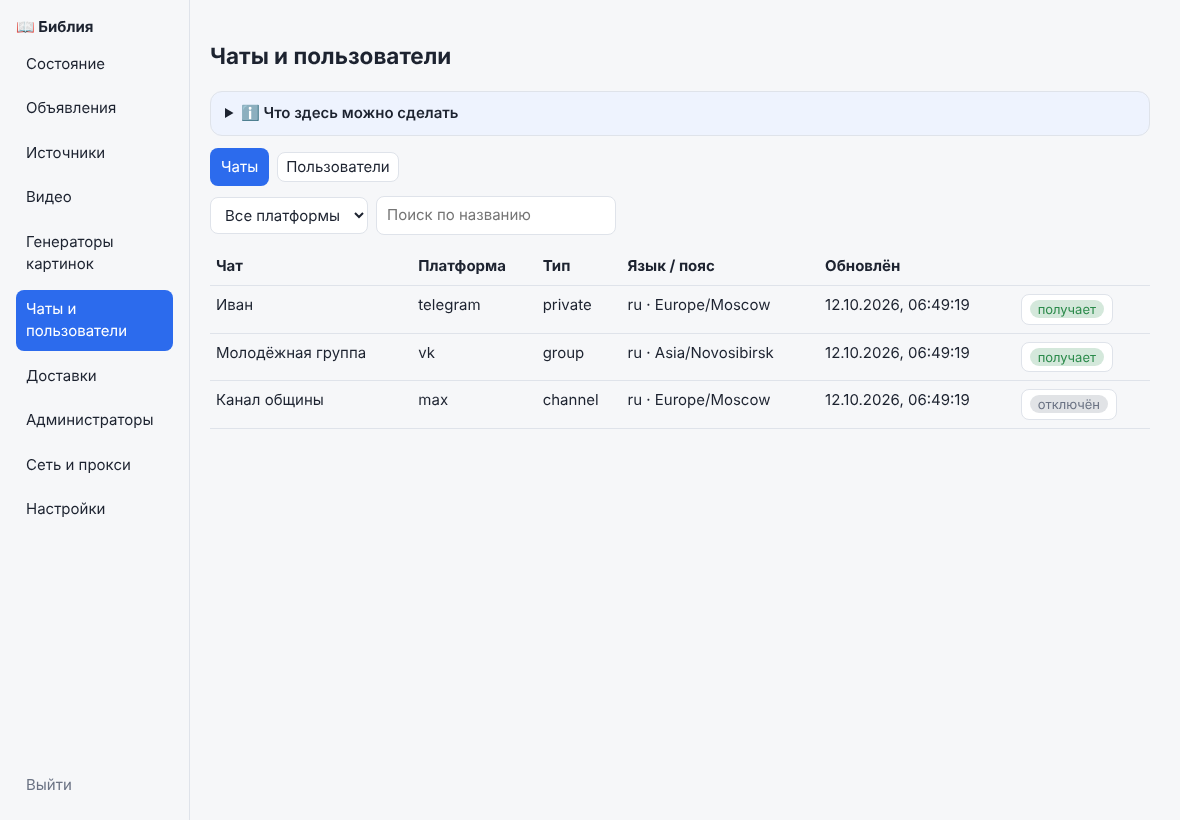
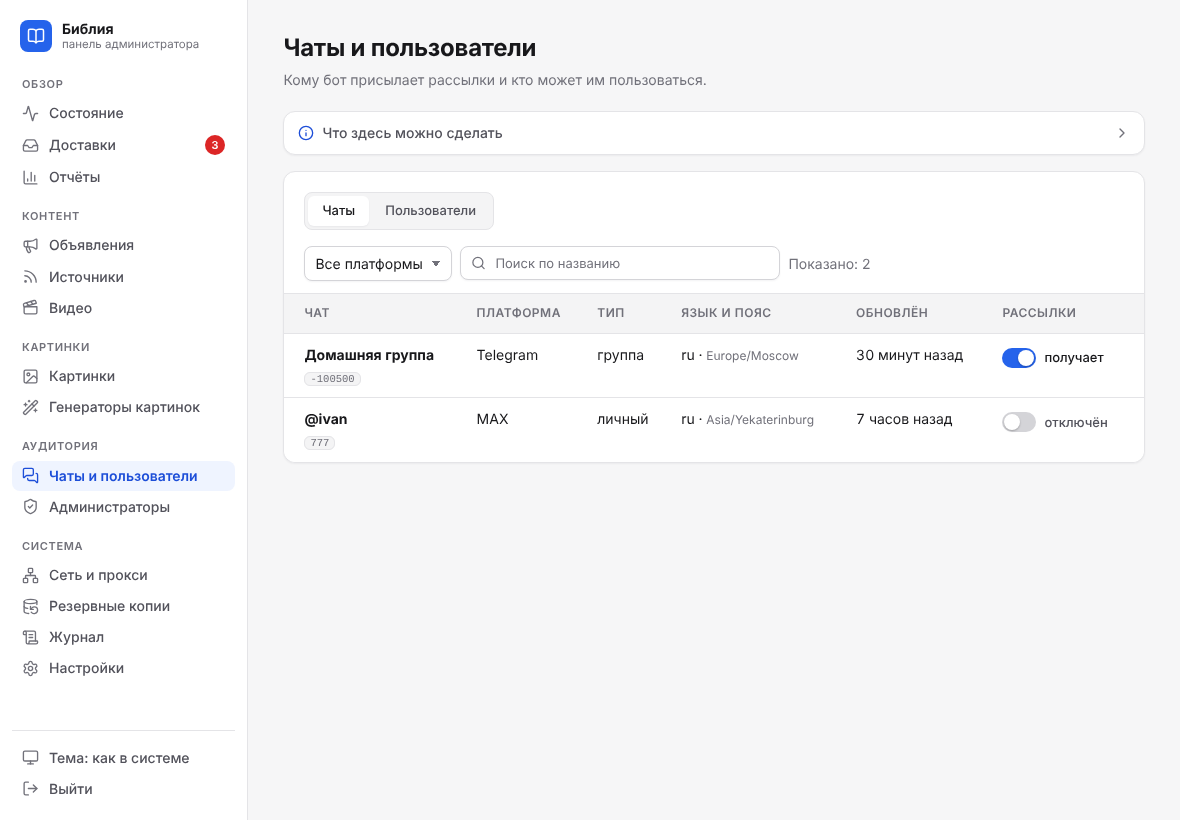
Refresh panel screenshots in docs and remove unused panel styles
Follow-up to the admin-ui redesign.

- docs/assets/screenshots/panel-*.png retaken on the new panel with a
  reproducible script: npm run screenshots:docs (light theme, 1180x820,
  mocked data).
- Removed CSS rules no page uses any more (.grid, .check, .pre, big,
  button.link, .backup-table), the legacy variable aliases and the unused
  Badge component.
- Billing mode select in the add-provider form no longer truncates.
- docs/admin wording updated for the new UI (route order buttons,
  template picker, audit filter).

Claude-Session: https://claude.ai/code/session_011Sz8CA2kvJ9BXFTKoYsh3G

diff --git a/admin-ui/src/styles.css b/admin-ui/src/styles.css
@@ -1,7 +1,5 @@
 @import './styles/tokens.css';
 
-/* Старые имена переменных, на которые ещё ссылаются разделы. Уйдут вместе с переводом разделов на компоненты. */
-:root { --fg: var(--text); --card: var(--surface); --line: var(--border); --muted: var(--text-3); --ok: var(--success); }
 
 /* ---------- Основа ---------- */
 *, *::before, *::after { box-sizing: border-box; }
@@ -20,8 +18,6 @@ pre { font-family: var(--font-mono); font-size: var(--text-sm); }
 small { font-size: var(--text-xs); }
 .muted, small { color: var(--text-3); }
 .error { color: var(--danger); }
-.pre { white-space: pre-wrap; margin: 4px 0; }
-big { display: block; font-size: 30px; font-weight: 650; letter-spacing: -0.02em; font-variant-numeric: tabular-nums; line-height: 1.2; margin-top: var(--space-1); }
 :focus-visible { outline: none; box-shadow: var(--focus); }
 ::selection { background: var(--accent-soft); }
 
@@ -115,7 +111,6 @@ button.small { min-height: var(--control-h-sm); padding: 0 10px; font-size: var(
 button.small:hover:not(:disabled) { background: var(--surface-hover); }
 button.danger { color: var(--danger); }
 button.small.danger:hover:not(:disabled) { background: var(--danger-soft); border-color: color-mix(in srgb, var(--danger) 40%, var(--border-strong)); }
-button.link { background: none; border: 0; box-shadow: none; color: var(--accent-text); padding: 0; min-height: 0; }
 .button-block { width: 100%; }
 .nav-item, .icon-button { box-shadow: none; min-height: 0; }
 .nav-item:hover:not(:disabled), .icon-button:hover:not(:disabled) { background: var(--surface-hover); }
@@ -124,15 +119,11 @@ button.link { background: none; border: 0; box-shadow: none; color: var(--accent
 /* ---------- Блоки ---------- */
 .card { background: var(--surface); border: 1px solid var(--border); border-radius: var(--radius-lg); padding: var(--space-5); margin: var(--space-4) 0; box-shadow: var(--shadow-sm); }
 .card .card { box-shadow: none; background: var(--surface-2); }
-.grid { display: grid; grid-template-columns: repeat(auto-fit, minmax(200px, 1fr)); gap: var(--space-4); margin: var(--space-4) 0; }
-.grid > .card { margin: 0; }
-.grid > .card > h3 { margin: 0; font-size: var(--text-sm); font-weight: 500; color: var(--text-2); }
 .row { display: flex; flex-wrap: wrap; gap: var(--space-2); align-items: center; margin: var(--space-2) 0; }
 .row > label { display: inline-flex; align-items: center; gap: 6px; }
 .actions { display: flex; gap: 6px; flex-wrap: wrap; align-items: center; }
 td.actions { display: table-cell; }
 td.actions > * { margin: 0 6px 6px 0; vertical-align: middle; }
-.check { margin: 6px 0; line-height: 1.6; }
 
 .callout { display: flex; align-items: flex-start; gap: var(--space-2); padding: 10px 12px; border-radius: var(--radius-md); font-size: var(--text-sm); margin: 0; }
 .callout > svg { flex: none; margin-top: 2px; }
@@ -173,11 +164,7 @@ tbody tr:hover td { background: color-mix(in srgb, var(--surface-hover) 60%, tra
 .badge.pending { background: var(--accent-soft); color: var(--accent-text); }
 button.small .badge { background: none; padding: 0; min-height: 0; box-shadow: none; }
 
-/* ---------- Резервные копии и выпуски ---------- */
-.backup-table { overflow-x: auto; }
-.backup-table th { white-space: nowrap; }
-.backup-table td:nth-child(3) { overflow-wrap: anywhere; min-width: 180px; }
-.backup-table td:last-child button { white-space: nowrap; }
+/* ---------- Версия и автодеплой ---------- */
 .release-heading { justify-content: space-between; }
 .release-heading h3 { margin: 0; }
 .release-grid { display: grid; grid-template-columns: repeat(auto-fit, minmax(205px, 1fr)); gap: var(--space-4); }

diff --git a/admin-ui/tests/screenshots.spec.js b/admin-ui/tests/screenshots.spec.js
@@ -27,3 +27,33 @@ for (const mode of MODES) {
     }
   });
 }
+
+// Скриншоты для пользовательской документации (docs/assets/screenshots/panel-*.png):
+// `npm run screenshots:docs`. Светлая тема, окно 1180×820, тестовые данные из моков.
+const DOCS = path.resolve('../docs/assets/screenshots');
+const DOC_SHOTS = [
+  ['panel-overview', 'Состояние'], ['panel-announcements', 'Объявления'], ['panel-sources', 'Источники'],
+  ['panel-videos', 'Видео'], ['panel-images', 'Генераторы картинок'], ['panel-chats', 'Чаты и пользователи'],
+  ['panel-deliveries', 'Доставки'], ['panel-admins', 'Администраторы'], ['panel-settings', 'Настройки'],
+  ['panel-network', 'Сеть и прокси'],
+];
+
+test('скриншоты для документации', async ({ page, api }) => {
+  test.skip(!process.env.DOCS_SCREENSHOTS, 'только по npm run screenshots:docs');
+  test.setTimeout(120000);
+  await page.setViewportSize({ width: 1180, height: 820 });
+  await page.emulateMedia({ colorScheme: 'light' });
+  await page.goto('./');
+  await page.screenshot({ path: `${DOCS}/panel-login.png` });
+  await login(page);
+  for (const [name, label] of DOC_SHOTS) {
+    await openSection(page, label);
+    await api.settle();
+    await page.screenshot({ path: `${DOCS}/${name}.png`, animations: 'disabled' });
+  }
+  await openSection(page, 'Генераторы картинок');
+  await page.getByRole('combobox').filter({ hasText: 'выберите шаблон' }).selectOption('cloudflare-flux');
+  await api.settle();
+  await page.getByRole('heading', { name: 'Добавить генератор' }).scrollIntoViewIfNeeded();
+  await page.screenshot({ path: `${DOCS}/panel-images-template.png`, fullPage: true, animations: 'disabled' });
+});

diff --git a/admin-ui/src/ui.jsx b/admin-ui/src/ui.jsx
@@ -54,7 +54,6 @@ export function useAction(after) {
 
 export const Status = ({ error, loading }) => (error ? <p className="callout callout-danger" role="alert">{error}</p>
   : loading ? <p className="loading" aria-live="polite"><span className="spinner" aria-hidden="true" />Загрузка…</p> : null);
-export const Badge = ({ on, yes = 'вкл', no = 'выкл' }) => <span className={`badge ${on ? 'ok' : 'off'}`}>{on ? yes : no}</span>;
 export const when = (value) => (value ? new Date(value).toLocaleString('ru-RU') : '—');
 
 export const PLATFORMS = [['telegram', 'Telegram'], ['max', 'MAX'], ['vk', 'ВКонтакте']];

diff --git a/admin-ui/src/pages/ImageProviders.jsx b/admin-ui/src/pages/ImageProviders.jsx
@@ -84,7 +84,7 @@ function AddForm({ templates, onCreated, secretsReady }) {
           </div>
           <div className="form-section">
             <h4 className="form-section-title">Оплата</h4>
-            <div className="form-grid">
+            <div className="form-grid form-grid-wide">
               <Field label="Режим оплаты"><select value={f.billing_mode} onChange={(e) => set({ billing_mode: e.target.value })}>
                 {Object.entries(BILLING).map(([id, text]) => <option key={id} value={id}>{text}</option>)}
               </select></Field>

diff --git a/docs/admin/admin-panel.md b/docs/admin/admin-panel.md
@@ -142,7 +142,7 @@ GitHub: Docker socket, `.env`, журналы и приватные артефа
 
 Роль выбирается при создании приглашения (`/admin invite editor`, кнопки в `/admin` → «Администраторы» или список в панели) и меняется в панели на странице «Администраторы». Панель защищена общим ключом, поэтому проверка ролей действует в командах бота.
 
-- **Журнал** (страница «Журнал»): кто, откуда (панель/бот), что и над чем сделал; ключи, пароли и адреса прокси скрываются; хранится 365 дней (`RETENTION_AUDIT_DAYS`).
+- **Журнал** (страница «Журнал»): кто, откуда (панель/бот), что и над чем сделал, с фильтром по тексту и источнику; ключи, пароли и адреса прокси скрываются; хранится 365 дней (`RETENTION_AUDIT_DAYS`).
 - **Отчёты** (страница «Отчёты»): доставки по дням и видам, частые ошибки, итоги каждого запуска объявления (получателей, в очереди, доставлено, ошибок).
-- **Объявления**: кнопка «Предпросмотр» показывает текст на каждой платформе и число получателей; «Шаблон…» подставляет сохранённый текст, «Сохранить как шаблон» добавляет новый; импорт JSON — список объявлений в формате API (`POST /api/admin/announcements/import`, принимается всё или ничего).
+- **Объявления**: кнопка «Предпросмотр» показывает текст на каждой платформе и число получателей; «Из шаблона…» в шапке формы подставляет сохранённый текст, «Сохранить как шаблон» добавляет новый; импорт JSON — список объявлений в формате API (`POST /api/admin/announcements/import`, принимается всё или ничего).
 - **Картинки** (страница «Картинки»): режим выбора генератора (по приоритету или автоматически по статистике), общий стиль, галерея с закреплением лучшей версии и карантином неудачных.

diff --git a/docs/admin/network.md b/docs/admin/network.md
@@ -9,7 +9,7 @@
 1. Откройте в панели **«Сеть и прокси»**. Для хранения адресов прокси нужен `SECRETS_KEY` или `ADMIN_API_KEY` (24+ символа) в `.env`.
 2. **Добавьте прокси**: название, тип (`http`, `https`, `socks5`, `socks5h`), хост, порт, логин и пароль (необязательно) — либо готовый адрес вида `socks5://логин:пароль@host:1080`.
 3. Нажмите **«Проверить»**, выбрав сервис, до которого прокси должен достучаться. Любой HTTP-ответ считается успехом (проверяется именно доступность пути).
-4. В карточке нужного сервиса **добавьте маршруты** из списка («Напрямую» и ваши прокси), расставьте порядок стрелками ↑↓, выберите стратегию и нажмите **«Сохранить»**.
+4. В карточке нужного сервиса **добавьте маршруты** из списка («Напрямую» и ваши прокси), расставьте порядок кнопками со стрелками вверх и вниз, выберите стратегию и нажмите **«Сохранить»**.
 5. Кнопка **«Проверить маршруты»** в карточке сервиса сразу показывает, какие пути работают и за сколько миллисекунд.
 
 Изменения подхватываются всеми службами в течение 30 секунд. Перезапуск не нужен.

diff --git a/docs/development/admin-redesign.md b/docs/development/admin-redesign.md
@@ -198,6 +198,11 @@
   - возврат на вход при 401;
   - метка в меню.
 
+## После этапа 4
+- **Скриншоты документации.** `docs/assets/screenshots/panel-*.png` пересняты на новой панели. Повторить: `npm run screenshots:docs` в `admin-ui` (светлая тема, окно 1180×820, тестовые данные).
+- **Очистка.** Удалены неиспользуемые правила (`.grid`, `.check`, `.pre`, `big`, `button.link`, `.backup-table`), переменные-заглушки старых имён и компонент `Badge`.
+- **Устаревшие формулировки** в `docs/admin` поправлены под новый интерфейс.
+
 ## Вопросы к владельцу
 1. **Референсы.** Какой стиль ближе: строгий нейтральный (Linear, Vercel), «тёплый» с акцентом под тематику бота или текущая гамма, но аккуратнее? 2–3 примера или скриншота закрывают вопрос.
 2. ~~Иконки~~ — согласовано: `lucide-react` (лицензия ISC, в сборку попадают только используемые иконки).

diff --git a/CHANGELOG.md b/CHANGELOG.md
@@ -2,6 +2,8 @@
 
 ## Не выпущено
 
+- Скриншоты веб-панели в документации обновлены под новый интерфейс (`npm run screenshots:docs` в `admin-ui`), из стилей панели удалены неиспользуемые правила.
+
 - Веб-панель удобнее в работе:
   - успешные действия подтверждаются уведомлением, ошибки показываются рядом с формой;
   - вместо стандартных окон браузера — свои окна подтверждения с понятными последствиями;
